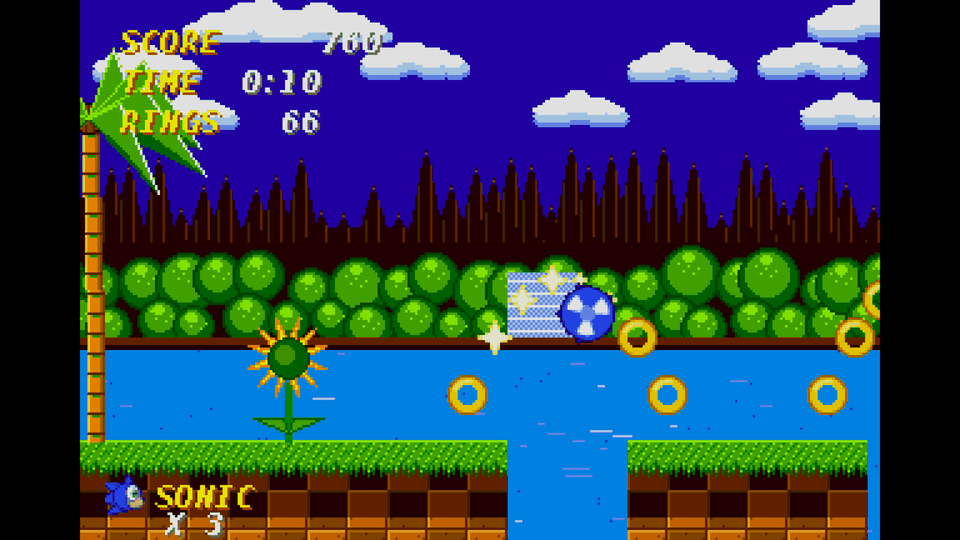
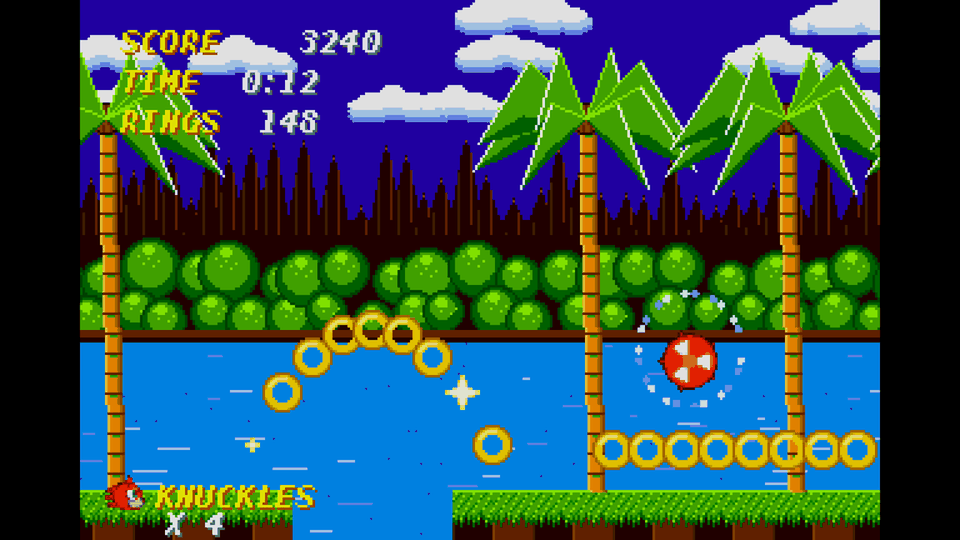
sonic screenshot and readme

diff --git a/README.md b/README.md
@@ -12,7 +12,7 @@ target (or about nine minutes at most), shows the result and moves on.
 | `snake` | Snake with brick walls and a choice of red (grow), blue (shrink) and golden (bonus) apples, solved offline with a dynamic Hamiltonian cycle |
 | `tetris` | Tetris, two-piece lookahead bot |
 | `bomber` | Bomberman |
-| `sonic` | Sonic the Hedgehog, three zones with scanline parallax |
+| `sonic` | Sonic the Hedgehog: short acts with loops, four characters (hedgehog, fox, echidna, dark hedgehog), scanline parallax |
 | `fzero` | F-Zero, pseudo-3D hover racing |
 | `moto` | Hang-On / Super Hang-On, pseudo-3D motorbike racing |
 | `pacman` | Pac-Man, original maze and ghost targeting |
@@ -92,3 +92,7 @@ and this project is not affiliated with or endorsed by them.
 ## License
 
 MIT, see [LICENSE](LICENSE).
+
+### Optional sprite sheets
+
+The repository only contains hand-drawn placeholder art. If you own sprite sheets you want to use for `sonic`, put them in `build/assets/` (ignored by git) before `make build`; see `build/g_sonic_sheets.py` for the expected file names.
